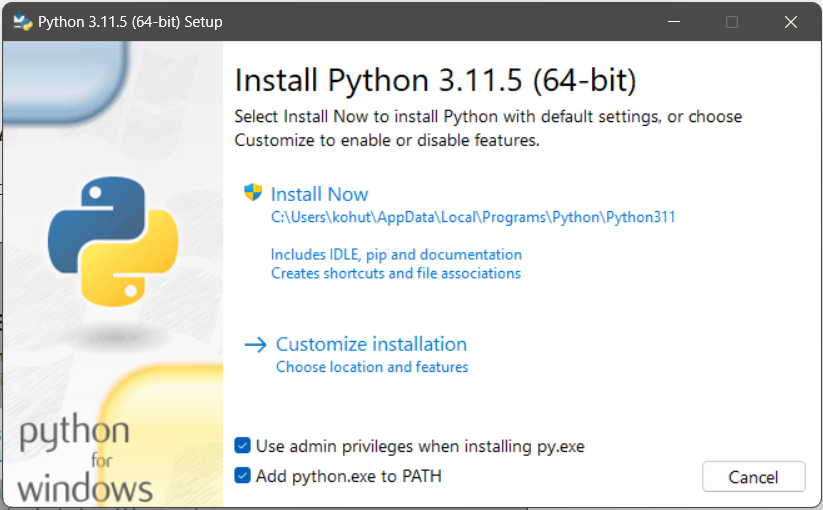
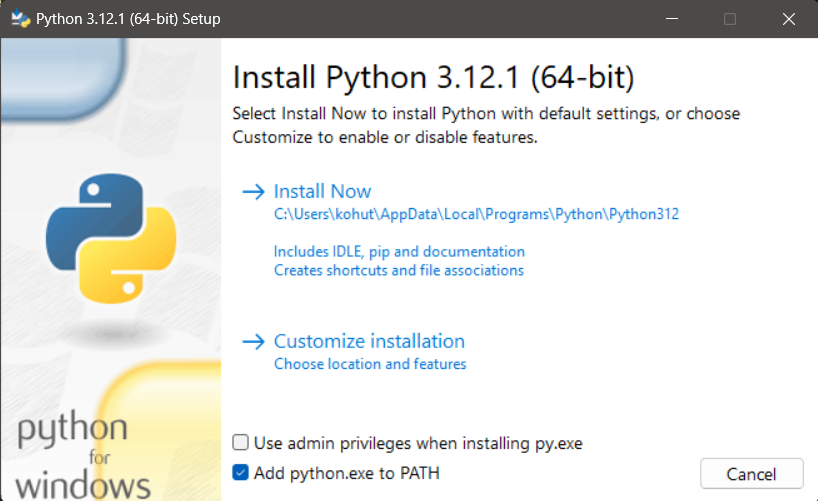
upadted

diff --git a/programovani_algoritmizace/programovani_uvod.md b/programovani_algoritmizace/programovani_uvod.md
@@ -44,15 +44,25 @@ Následně stažený instalátor dvojklikem spusť (bude ve stažených souborec
 
 ![python interpreter](../images/python_interpreter.png).
 
-Na začátku instalace zaškrtni:
-
-- Add python.exe to PATH
-- Use admin privilegies when installing py.exe (pokud máte admin práva na počítači, pokud ne, není potřeba to řešit)
+Na začátku instalace zaškrtni `Add python.exe to PATH`. Možnost `Use admin privileges when installing py.exe` nechte nezaškrtnutou.
 
 ![installation](../images/instalation.png).
 
 Poté klikněte na _Install Now_. Poté, co instalace doběhne, okno zavřete.
 
+## Změna interpreteru ve VS code
+
+Pokud jste stáhli novou verzi pythonu a potřebujete ve VS Code nastavit nový interpreter postupujte následovně:
+ 1. Pokud máte otevřené VS code, tak ho zavřete
+ 2. Otevřete VS code
+ 3. Zmáčkněte kombinaci kláves `ctrl`+`shift`+`P`
+ 4. Do textového pole napište `Python: Select Interpreter` a vyberte tuto možnost
+ 
+![installation](../images/select-interpreter.png).
+
+5. Vyberte verzi verzi pythonu (`Python 3.12.1 64-bit`)
+
+![installation](../images/select-version.png).
 ## VS code
 
 Pro psaní programu budeme používat Visual Studio Code (VS code), které nainstalujte do počítače z [oficiálních stránek](https://code.visualstudio.com/).
